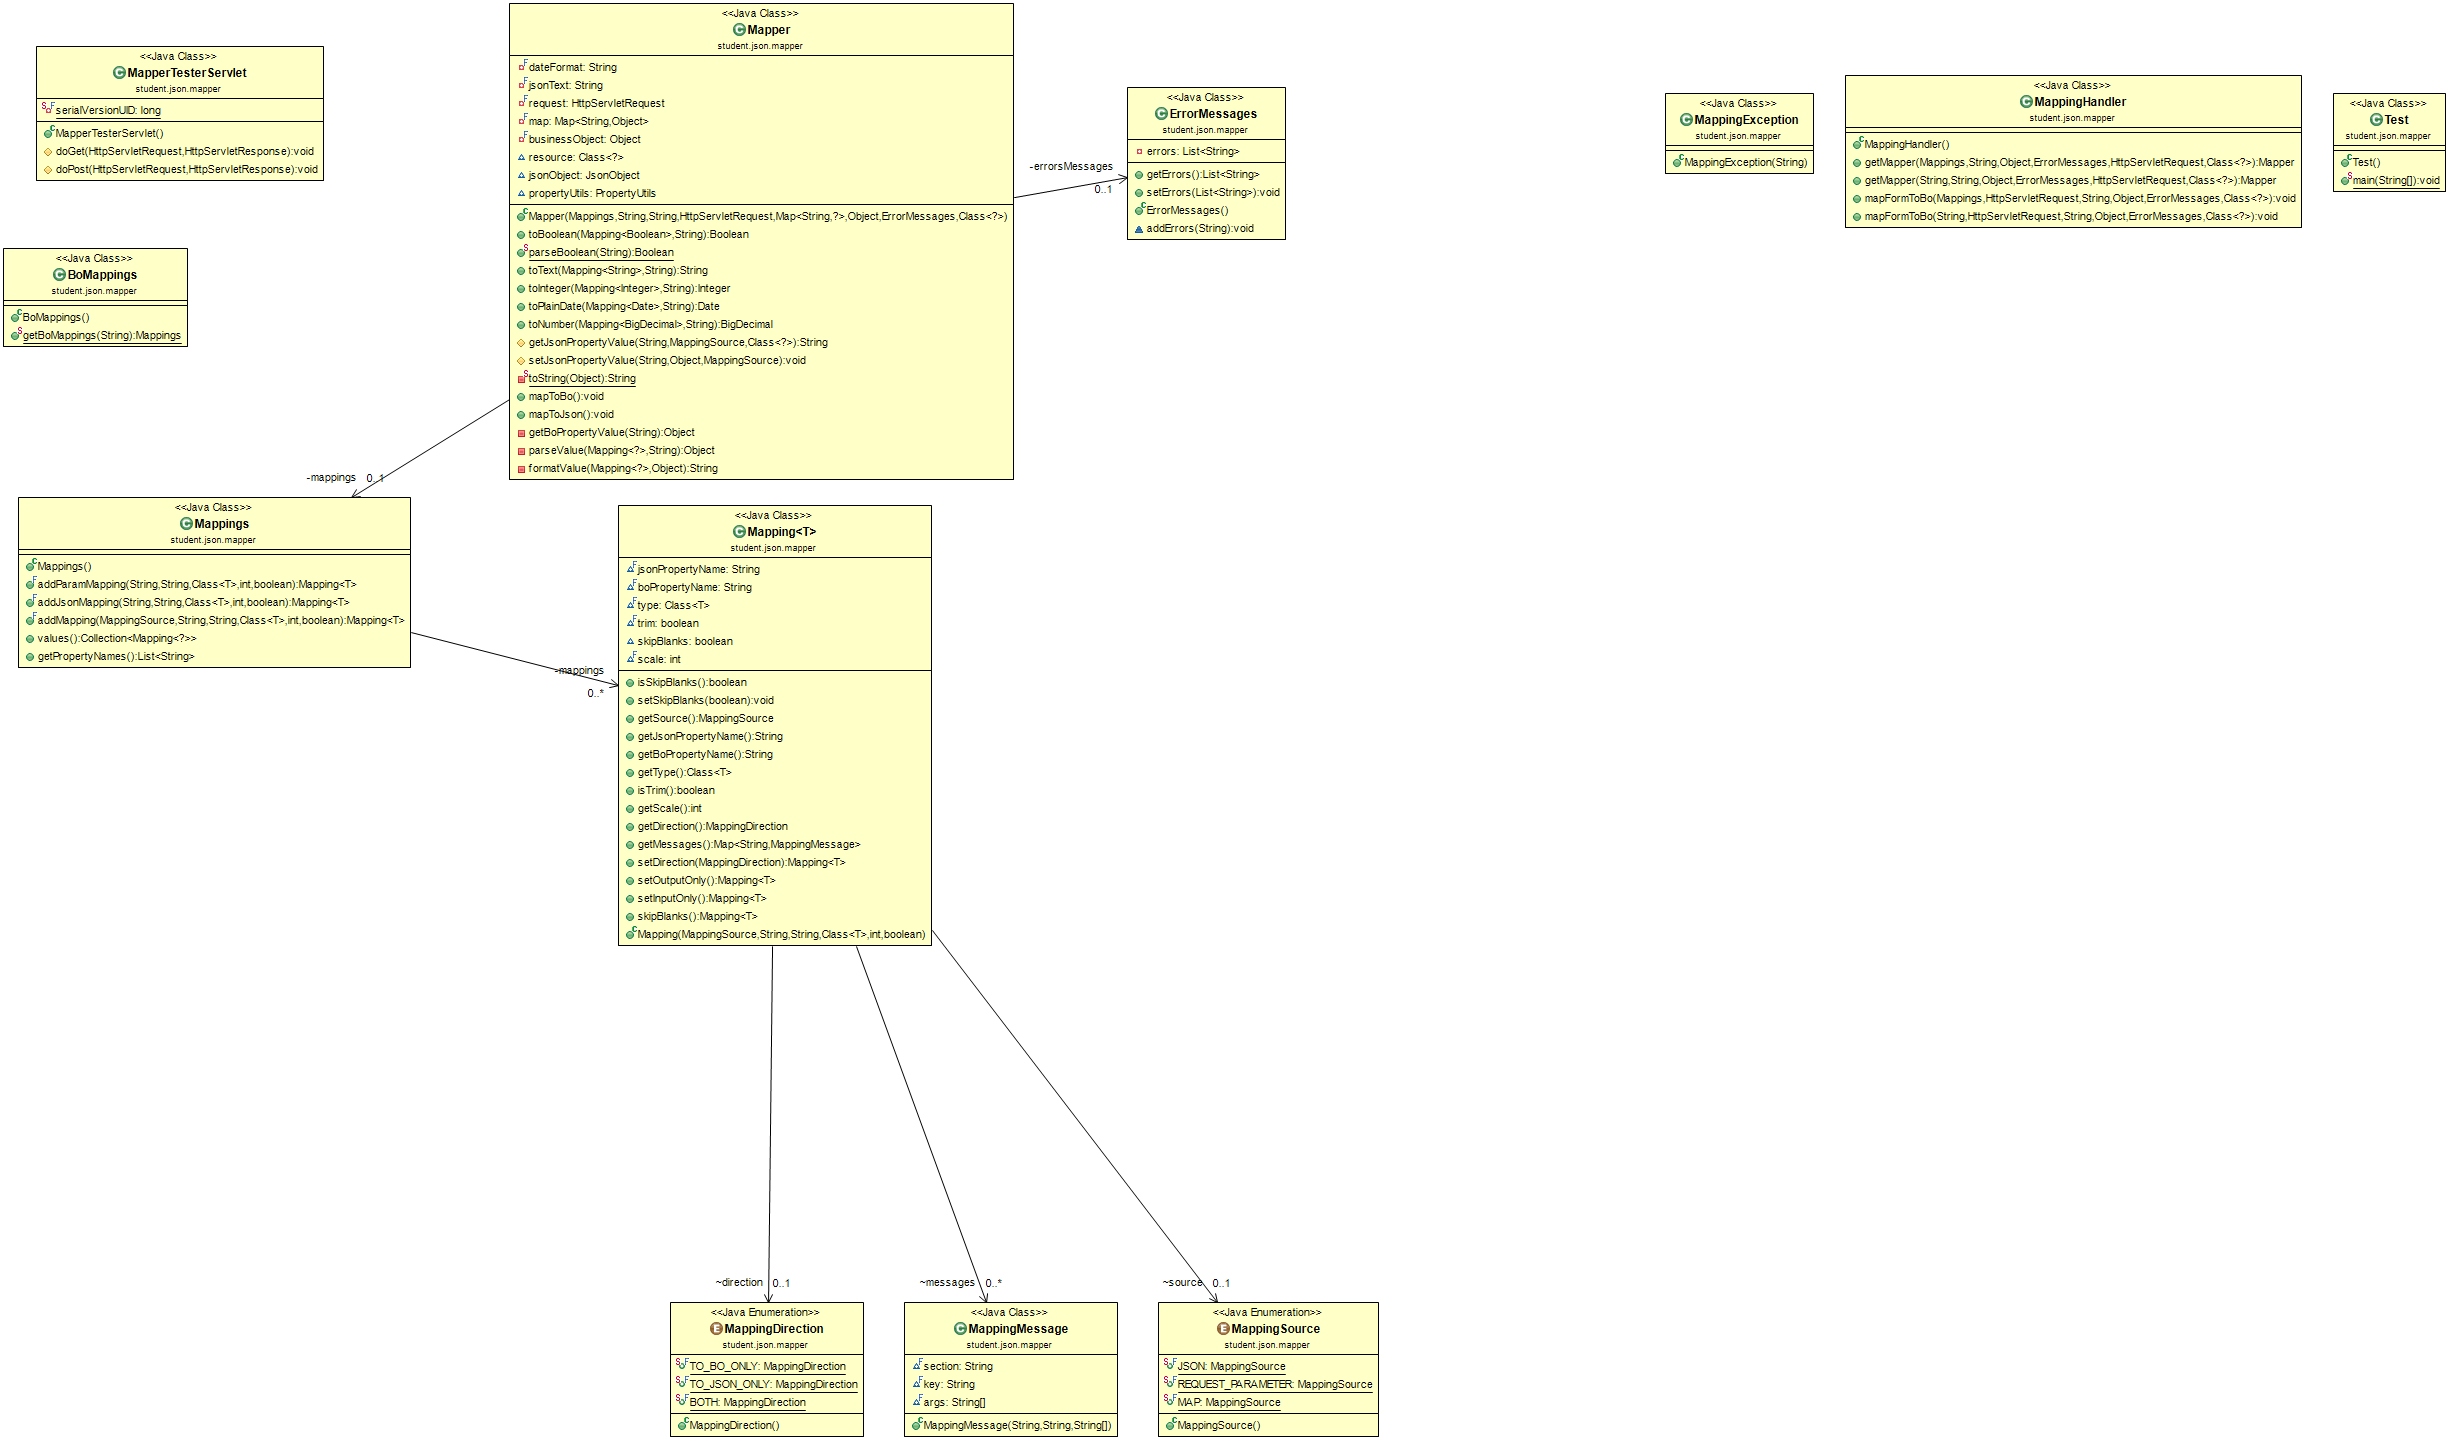
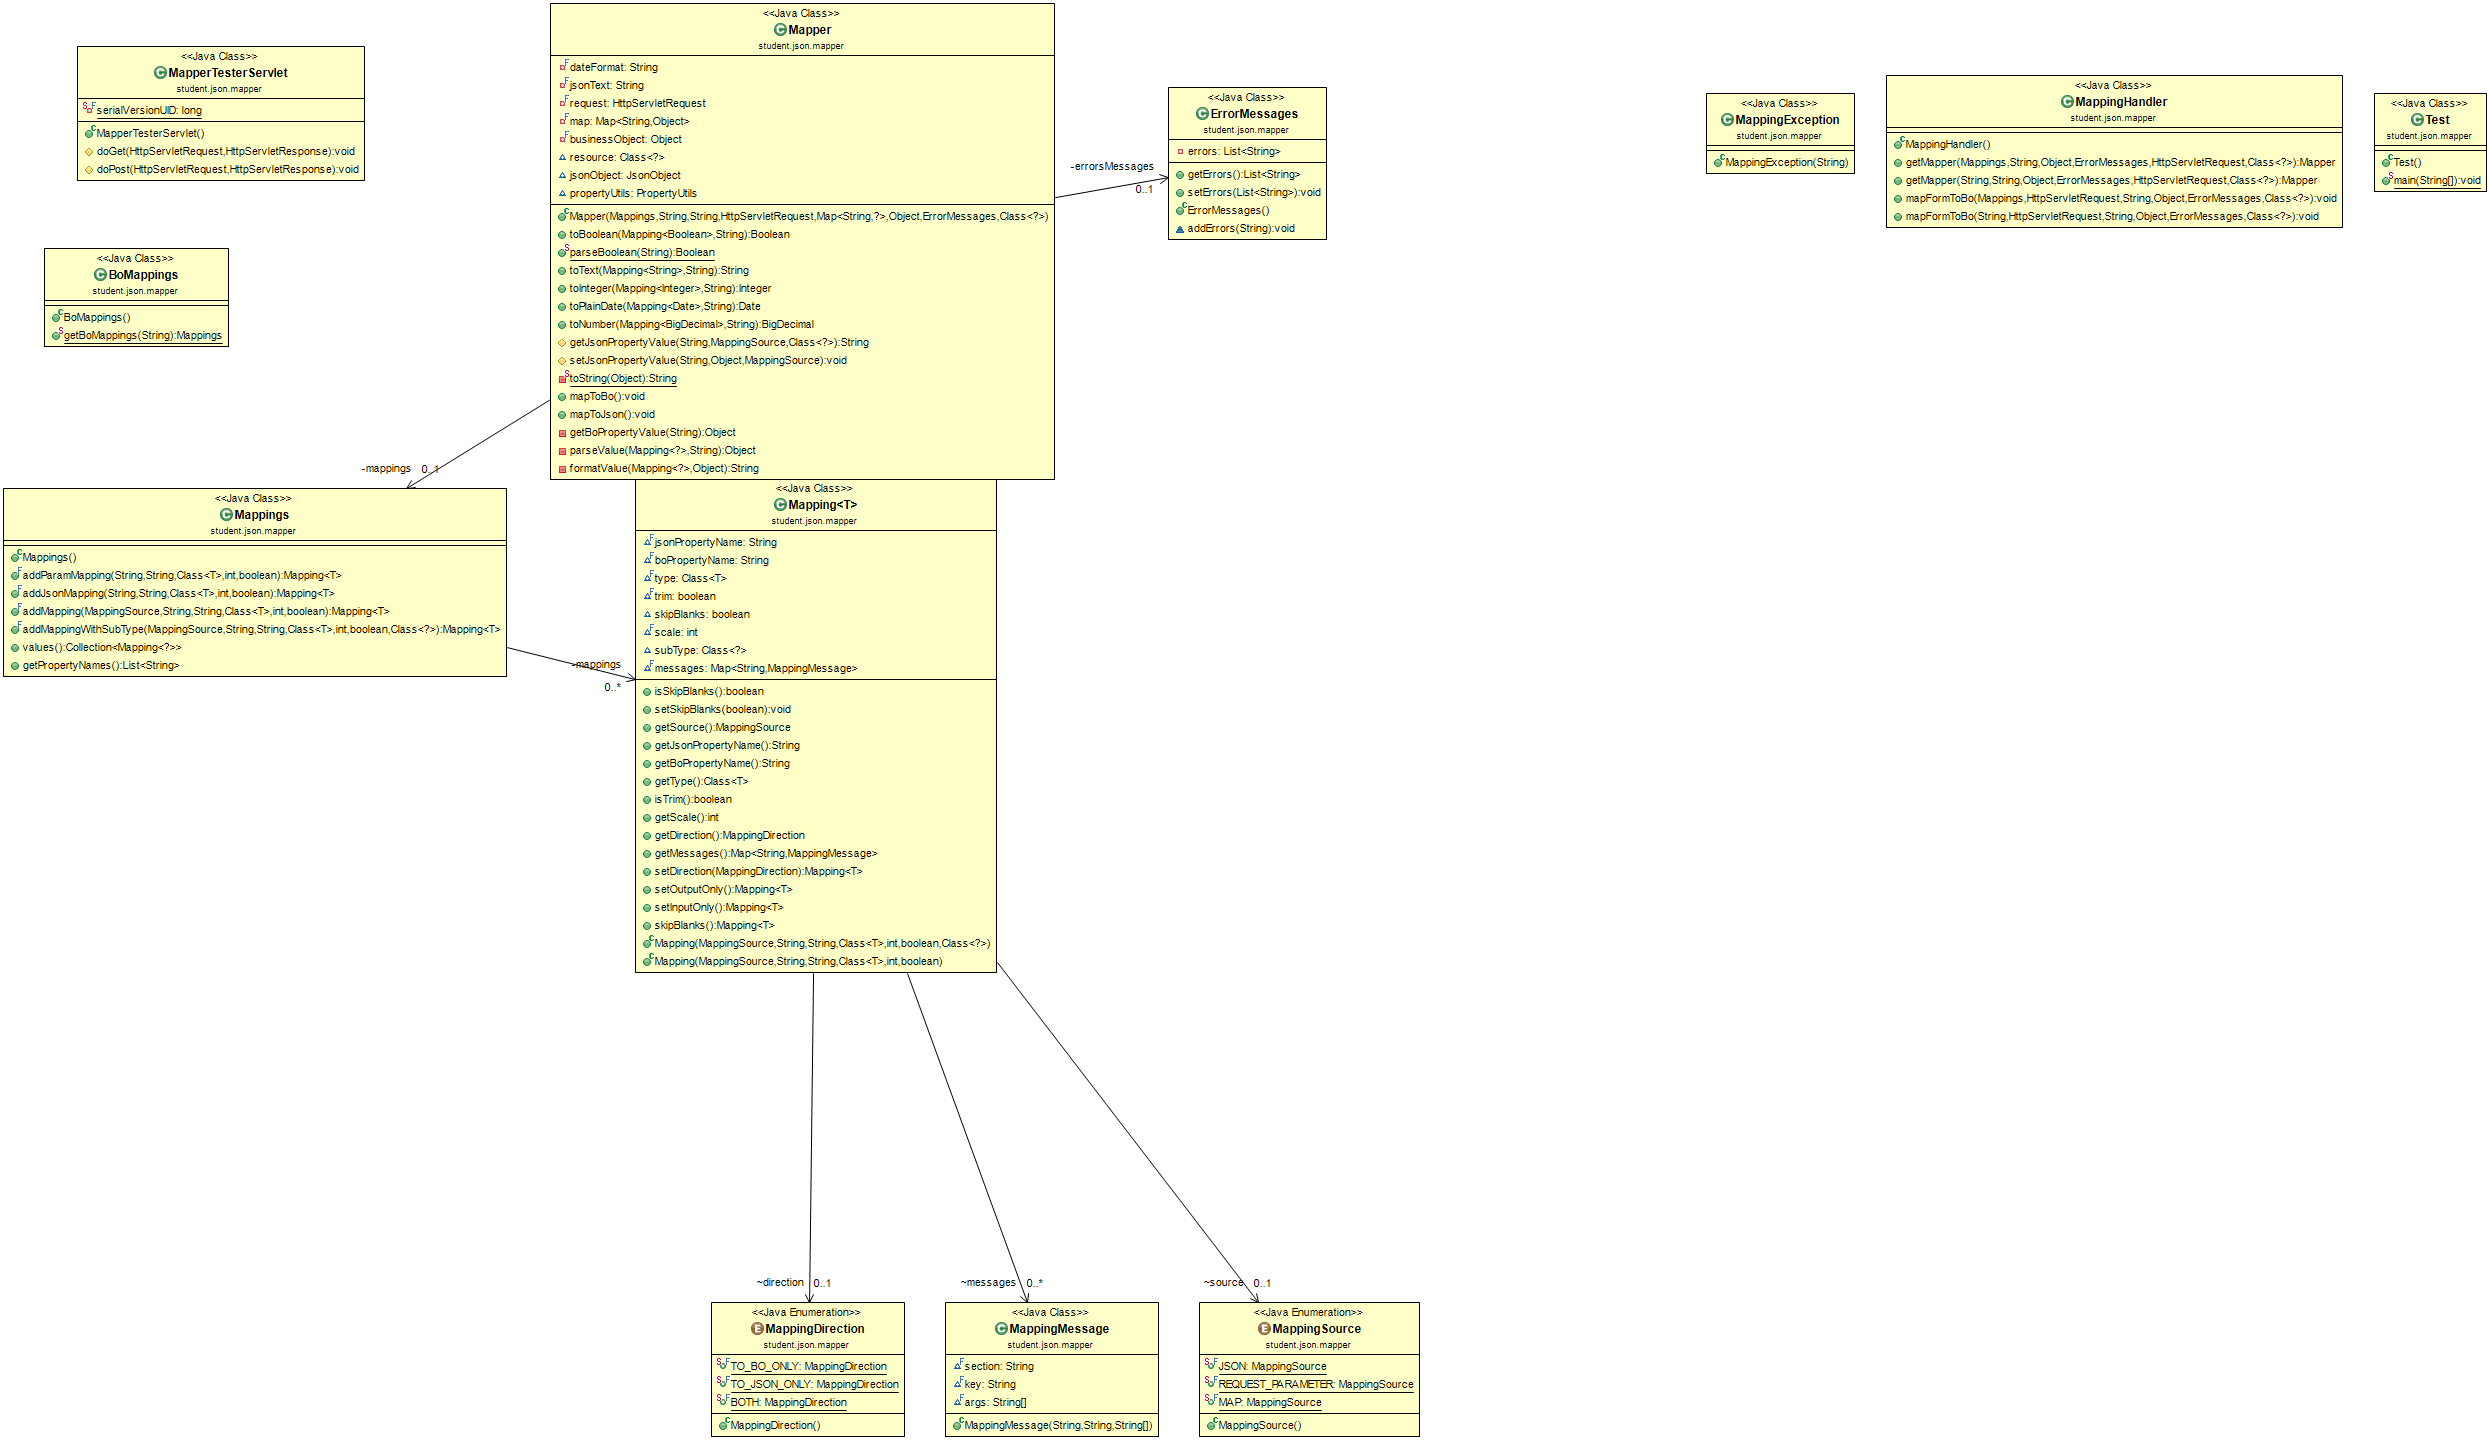
Map Support

diff --git a/src/student/json/mapper/Mapper.java b/src/student/json/mapper/Mapper.java
@@ -1,12 +1,11 @@
 package student.json.mapper;
 
-import java.lang.reflect.Field;
-import java.lang.reflect.Method;
 import java.math.BigDecimal;
 import java.text.ParseException;
 import java.text.SimpleDateFormat;
 import java.util.ArrayList;
 import java.util.Date;
+import java.util.HashMap;
 import java.util.List;
 import java.util.Map;
 
@@ -15,12 +14,11 @@ import javax.servlet.http.HttpServletRequest;
 import org.apache.commons.beanutils.NestedNullException;
 import org.apache.commons.beanutils.PropertyUtils;
 
+import com.google.gson.Gson;
 import com.google.gson.JsonArray;
 import com.google.gson.JsonElement;
 import com.google.gson.JsonObject;
 import com.google.gson.JsonParser;
-import test.Author;
-import test.Book;
 
 public class Mapper {
 	private final Mappings mappings;
@@ -197,19 +195,27 @@ public class Mapper {
 					
 				  }
 				  else if(jc.isJsonObject()) {
-					  try {
+					 
+						  if(mapping.type==HashMap.class){
+							  Map<Object,Object> mp=new HashMap<>();
+							  mp=(Map<Object, Object>) new Gson().fromJson(jc, mapping.type);
+							  value=mp;
+						  }
+						  else {
+							  try {
 						 value=mapping.type.newInstance();
 						  ErrorMessages errorsMessages=new ErrorMessages();
 						    MappingHandler mp=new  MappingHandler();
 						    mp.mapFormToBo(mapping.type.getName(),request,jc.toString(),value,
 									 errorsMessages,mapping.type);
-
+						  
 					} catch (InstantiationException e) {
 						e.printStackTrace();
 					} catch (IllegalAccessException e) {
 						e.printStackTrace();
 					}
 				  }
+			  }
 				  else if(jc.isJsonArray()){
 					  try {
 						value=mapping.type.newInstance();

diff --git a/src/student/json/mapper/Mapping.java b/src/student/json/mapper/Mapping.java
@@ -51,6 +51,8 @@ public class Mapping<T> {
     final boolean trim;
     boolean skipBlanks = false;
     final int scale;
+     Class<?> subType=null;
+
     MappingDirection direction = MappingDirection.BOTH;
 
     public Mapping<T> setDirection(MappingDirection direction) {
@@ -73,6 +75,17 @@ public class Mapping<T> {
 
     final Map<String, MappingMessage> messages = new HashMap<String, MappingMessage>();
 
+   
+    public Mapping(MappingSource source, String jsonPropertyName, String boPropertyName, Class<T> type, int scale,
+            boolean trim,Class<?> subType) {
+        this.source = source;
+        this.jsonPropertyName = jsonPropertyName;
+        this.boPropertyName = boPropertyName;
+        this.type = type;
+        this.scale = scale;
+        this.trim = trim;
+        this.subType=subType;
+    }
     public Mapping(MappingSource source, String jsonPropertyName, String boPropertyName, Class<T> type, int scale,
             boolean trim) {
         this.source = source;
@@ -82,5 +95,4 @@ public class Mapping<T> {
         this.scale = scale;
         this.trim = trim;
     }
-
   }

diff --git a/src/student/json/mapper/Mappings.java b/src/student/json/mapper/Mappings.java
@@ -1,6 +1,12 @@
 package student.json.mapper;
 
-import java.util.*;
+import java.util.ArrayList;
+import java.util.Collection;
+import java.util.LinkedHashMap;
+import java.util.List;
+import java.util.Map;
+
+import test.Author;
 
 public class Mappings {
 
@@ -19,6 +25,12 @@ public class Mappings {
     public final <T> Mapping<T> addMapping(MappingSource source, String jsonPropertyName, String boPropertyName,
             Class<T> type, int scale, boolean trim) {
         Mapping<T> mapping = new Mapping<T>(source, jsonPropertyName, boPropertyName, type, scale, trim);
+        mappings.put(jsonPropertyName, mapping);
+        return mapping;
+    }
+    public final <T> Mapping<T> addMappingWithSubType(MappingSource source, String jsonPropertyName, String boPropertyName,
+            Class<T> type, int scale, boolean trim,Class<?> subType) {
+        Mapping<T> mapping = new Mapping<T>(source, jsonPropertyName, boPropertyName, type, scale, trim,subType);
         mappings.put(jsonPropertyName, mapping);
         return mapping;
     }

diff --git a/src/student/json/mapper/BoMappings.java b/src/student/json/mapper/BoMappings.java
@@ -2,7 +2,7 @@ package student.json.mapper;
 
 import java.util.ArrayList;
 import java.util.Date;
-import java.util.LinkedHashMap;
+import java.util.HashMap;
 
 import test.Author;
 
@@ -38,7 +38,8 @@ public class BoMappings {
 			mappings.addMapping(MAP, "name", "name", String.class, 0, true);
 			mappings.addMapping(MAP, "author", "author", Author.class, 0, true);
 			mappings.addMapping(MAP, "genere", "genere", ArrayList.class, 0, true);
-			mappings.addMapping(MAP, "mapTest", "mapTest", LinkedHashMap.class, 0, true);
+			mappings.addMapping(MAP, "mapTest", "mapTest", HashMap.class, 0, true);
+			mappings.addMappingWithSubType(MAP, "authorList", "authorList", ArrayList.class, 0, true, Author.class);
 
 
 		}

diff --git a/src/test/Book.java b/src/test/Book.java
@@ -9,7 +9,15 @@ private String name;
 private Author author;
 private List<String> genere;
 private Map<String,String> mapTest;
+private List<Author> authorList;
 
+
+public List<Author> getAuthorList() {
+	return authorList;
+}
+public void setAuthorList(List<Author> authorList) {
+	this.authorList = authorList;
+}
 public Map<String, String> getMapTest() {
 	return mapTest;
 }

diff --git a/src/test/BookTest.java b/src/test/BookTest.java
@@ -28,7 +28,9 @@ public class BookTest {
 		Map<String,String> mp=new HashMap<>();
 		mp.put("Dhananjay", "XYZ");
 		bk.setMapTest(mp);
-		
+		List<Author> authorList=new ArrayList<Author>();
+		authorList.add(author);
+		bk.setAuthorList(authorList);
 		System.out.println(new Gson().toJson(bk,Book.class));
 	}
 
